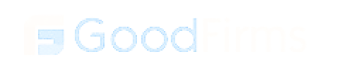
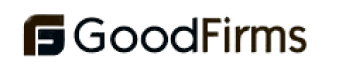
fix light theme marquee images

Changed region(s): [[0.059, 0.1687, 0.9145, 0.6988]]

diff --git a/src/components/logo-cloude.js b/src/components/logo-cloude.js
@@ -1,15 +1,15 @@
 const logos = [
-    { name: 'Star', url: "/assets/star.png" },
-    { name: 'Google', url: '/assets/google.png' },
-    { name: 'Star', url: "/assets/star.png" },
-    { name: 'Goodfirms', url: '/assets/goodfirms.png' },
-    { name: 'Star', url: "/assets/star.png" },
-    { name: 'Glassdoor', url: "/assets/glassdoor.png" },
+    { name: 'Star', url: "/assets/star.png", url_dark:"/assets/star_darktheme.png" },
+    { name: 'Google', url: '/assets/google.png', url_dark:"/assets/google_darktheme.png" },
+    { name: 'Star', url: "/assets/star.png", url_dark:"/assets/star_darktheme.png" },
+    { name: 'Goodfirms', url: '/assets/goodfirms.png', url_dark:"/assets/goodfirms_darktheme.png" },
+    { name: 'Star', url: "/assets/star.png", url_dark:"/assets/star_darktheme.png" },
+    { name: 'Glassdoor', url: "/assets/glassdoor.png", url_dark:"/assets/glassdoor_darktheme.png" },
   ]
   
   const AnimatedLogoCloud = () => {
     return (
-     <section className="w-full flex items-center justify-center h-full z-20 dark:bg-black">
+     <section className="w-full flex items-center justify-center h-full z-20">
        <div className="w-full pt-10 min-h-[28vh]">
         <div className="mx-auto w-full px-4 md:px-8">
           <div
@@ -30,7 +30,15 @@ const logos = [
                     <img
                       key={key}
                       src={logo.url}
-                      className="px-2 h-1/2 text-black dark:white"
+                      className="px-2 h-1/2 dark:hidden"
+                      alt={`${logo.name}`}
+                    />
+                  ))}
+                  {logos.map((logo, key) => (
+                    <img
+                      key={key}
+                      src={logo.url_dark}
+                      className="px-2 h-1/2 hidden dark:block"
                       alt={`${logo.name}`}
                     />
                   ))}
